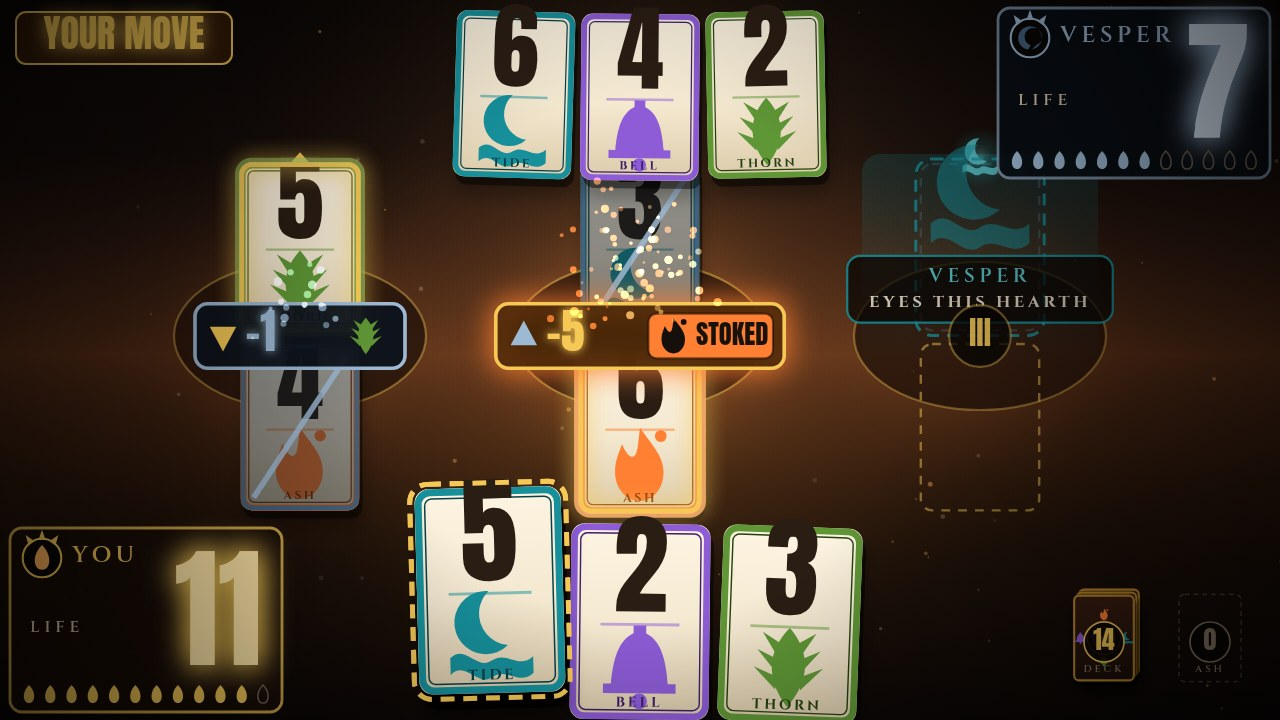
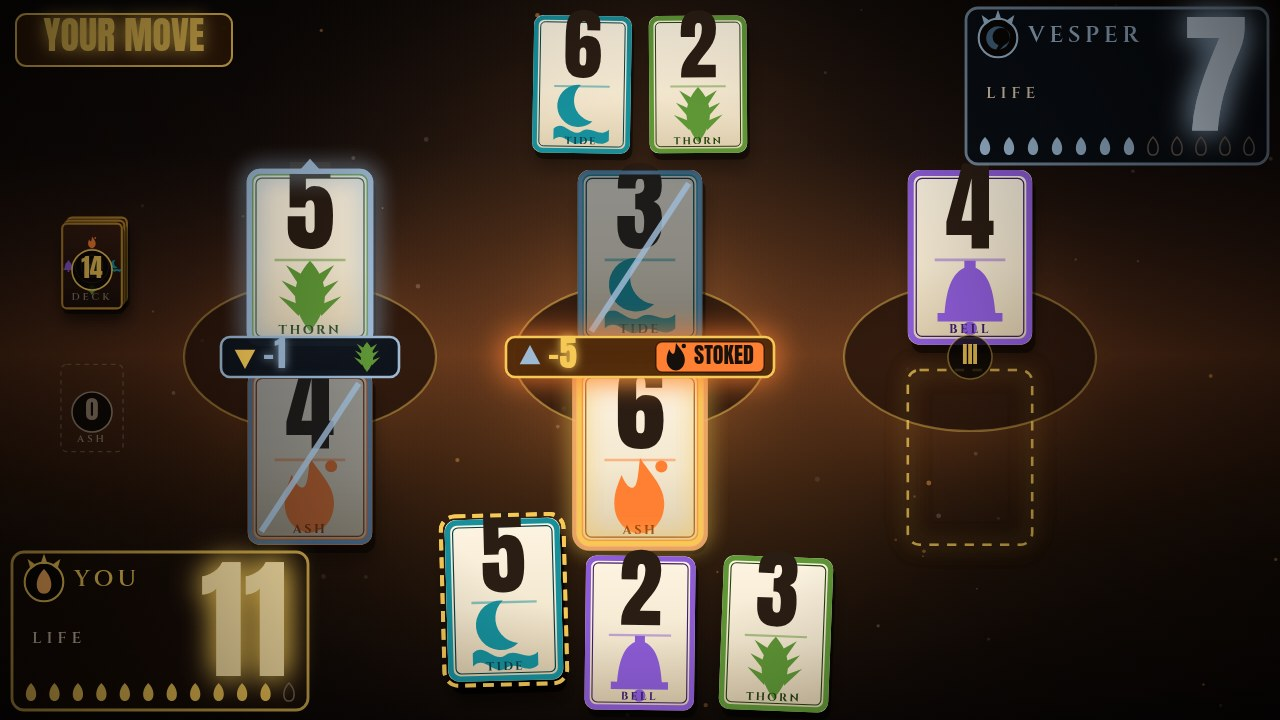
Let the table settle so the court survives a contact sheet
The live table still was a mid-snap frame: both hands bled off the top and
bottom edges, the rival's hand rested on her own hearth row, damage chips
crossed the ranks underneath them and ember specks sat over the crests. At
full size that reads as lively. On a contact sheet, where the table tile is
never enlarged, it reads as a smudge.

So the FOCUS dressing is re-budgeted as four bands down the 720 -- her hand,
her hearth row, your hearth row, your hand -- each with a gutter nothing may
cross. The hearth row grows and the hands give a little back; the fan flattens
so no card reaches a frame edge; and the seam between two clashing cards opens
to 25px, which is the load-bearing change: the verdict badge now flattens into
that seam and sits between the cards instead of across them, so no chip ever
touches a rank or a crest again.

The scene itself is a beat after the snap rather than mid-explosion. She has
committed BELL 4 to the right hearth, so the court shows two settled verdicts
and one live decision with your answer slot struck in gold -- and the embers
and the "eyes this hearth" tell are gone, because a spark over a numeral costs
more than a lit seam is worth.

A card that took its hearth now wears its own side's colour, gold for you and
cold for Vesper, instead of both sides wearing gold. The life blocks already
spoke that pair; the hearths were the one place it broke, which left two gold
rims on a table where the two suitors had won one each.

diff --git a/game/src/config.js b/game/src/config.js
@@ -85,12 +85,14 @@ export const ZONE = {
 // --- court dressing --------------------------------------------------------
 // The same table can be set two ways. RAILS is the full court, with the cycle wheel, the
 // deck and ash piles, the court's law, the log and the control hints laid around the
-// play. FOCUS pulls those rails away and reflows what is left -- hands, hearths, verdict
-// badges and life numerals all grow into the freed width -- so the court reads from
-// across the room. TAB swaps between them in play; the table still is taken in FOCUS.
+// play. FOCUS pulls those rails away and re-budgets the bare 1280x720 the court is left
+// with: the hearth row and the life numerals take the space, the two hands give some back,
+// and every row is separated by a gutter nothing may cross -- so the court reads from
+// across the room and survives being shrunk to a thumbnail. TAB swaps between them in
+// play; the table still is taken in FOCUS.
 // Only presentation moves: the deck, the rules and the rival all behave identically.
 
-export const DRESS = { mode: 'rails', rails: true, lifeNumeral: 80, verdict: 1, tell: 1 };
+export const DRESS = { mode: 'rails', rails: true, lifeNumeral: 80, verdict: 1, tell: 1, handArc: 2.6 };
 
 const DRESSINGS = {
   rails: {
@@ -98,6 +100,7 @@ const DRESSINGS = {
     lifeNumeral: 80,
     verdict: 1,
     tell: 1,
+    handArc: 2.6,
     scale: { playerHand: 0.92, rivalHand: 0.76, hearth: 0.7 },
     zone: {
       rivalHandY: 8,
@@ -118,30 +121,45 @@ const DRESSINGS = {
       playerBank: { cx: 1196, cy: 650 },
     },
   },
+  // FOCUS is budgeted as four bands down the 720: her hand, her side of the hearths, your
+  // side of the hearths, your hand. Nothing is allowed to touch its neighbour or the frame
+  // edge, because the court has to survive being shrunk to a thumbnail -- a card clipped by
+  // the top edge or a hand card resting on a hearth card turns the whole table to mush.
+  // The hearth row is the biggest thing on the table; the two hands read a size below it.
   focus: {
     rails: false,
     lifeNumeral: 132,
-    verdict: 1.4,
+    verdict: 1,
     tell: 1.45,
-    scale: { playerHand: 0.94, rivalHand: 0.8, hearth: 0.8 },
+    // a flatter fan: a steep arc is charm at full size and overflow at the frame edge
+    handArc: 0.9,
+    scale: { playerHand: 0.74, rivalHand: 0.66, hearth: 0.84 },
     zone: {
-      rivalHandY: 14,
-      rivalHandStep: 126,
-      playerHandY: 524,
-      playerHandStep: 150,
-      hearthCentersX: [300, 640, 980],
-      hearthRivalY: 164,
-      hearthPlayerY: 344,
-      hearthSeamY: 336,
-      hearthPlateW: 248,
-      rivalLife: { x: 998, y: 8, w: 272, h: 170 },
-      playerLife: { x: 10, y: 528, w: 272, h: 184 },
-      turnBanner: { x: 16, y: 12, w: 216, h: 52 },
-      deckStack: { cx: 1104, cy: 638 },
-      discardStack: { cx: 1210, cy: 638 },
+      // her hand  16 .. 153
+      rivalHandY: 16,
+      rivalHandStep: 116,
+      // her hearth row 170 .. 345, then a 25px seam, then your hearth row 370 .. 545.
+      // That seam is the load-bearing gap: it is wide enough for the verdict badge to
+      // sit between the two cards instead of across them, so no chip ever touches a rank.
+      hearthRivalY: 170,
+      hearthSeamY: 357,
+      hearthPlayerY: 370,
+      // your hand 556 .. 713
+      playerHandY: 556,
+      playerHandStep: 136,
+      hearthCentersX: [310, 640, 970],
+      hearthPlateW: 252,
+      // the two life blocks take the corners the hearth row cannot reach
+      rivalLife: { x: 966, y: 8, w: 302, h: 156 },
+      playerLife: { x: 12, y: 552, w: 296, h: 158 },
+      turnBanner: { x: 16, y: 14, w: 216, h: 52 },
+      // the stock and the ash take the left flank the hearth row cannot reach, where they
+      // weigh against the banner above them instead of crowding your hand
+      deckStack: { cx: 92, cy: 266 },
+      discardStack: { cx: 92, cy: 408 },
       // a banked card has to come to rest clear of the piles and the opened-up hands
-      rivalBank: { cx: 78, cy: 242 },
-      playerBank: { cx: 1198, cy: 470 },
+      rivalBank: { cx: 1192, cy: 300 },
+      playerBank: { cx: 1192, cy: 462 },
     },
   },
 };
@@ -154,6 +172,7 @@ export function setDressing(mode) {
   DRESS.lifeNumeral = preset.lifeNumeral;
   DRESS.verdict = preset.verdict;
   DRESS.tell = preset.tell;
+  DRESS.handArc = preset.handArc;
   Object.assign(SCALE, preset.scale);
   Object.assign(ZONE, preset.zone);
   return DRESS.mode;

diff --git a/game/src/render.js b/game/src/render.js
@@ -85,7 +85,20 @@ export function drawHearths(ctx, scene) {
     const playerCard = scene.table.hearths[i].player;
     const rivalCard = scene.table.hearths[i].rival;
     if (!playerCard) {
-      drawEmptySlot(ctx, hearthSlot('player', i), open ? INK.gold : 'rgba(142,123,102,0.6)');
+      const slot = hearthSlot('player', i);
+      if (open && !DRESS.rails) {
+        // In focus the hearth you can still answer on is the live thing on the table, so
+        // its empty slot is struck twice through a gold glow: at thumbnail size a single
+        // thin dash reads as a missing card rather than as an invitation.
+        ctx.save();
+        ctx.shadowColor = INK.gold;
+        ctx.shadowBlur = 20;
+        drawEmptySlot(ctx, slot, INK.gold);
+        drawEmptySlot(ctx, slot, INK.gold);
+        ctx.restore();
+      } else {
+        drawEmptySlot(ctx, slot, open ? INK.gold : 'rgba(142,123,102,0.6)');
+      }
       if (open && DRESS.rails) {
         cinzel(ctx, 12, INK.gold, { spacing: 3 });
         ctx.fillText(['Q', 'W', 'E'][i], cx, ZONE.hearthPlayerY + (CARD.h * SCALE.hearth) / 2 + 2);
@@ -100,7 +113,7 @@ export function drawHearths(ctx, scene) {
 
 function cardState(scene, card, side, hearthIndex) {
   const event = hearthIndex === undefined ? null : scene.table.hearths[hearthIndex].event;
-  const state = { flared: Boolean(card.flared) };
+  const state = { flared: Boolean(card.flared), side };
   if (event) state.outcome = event.winner === side ? 'won' : 'lost';
   return state;
 }
@@ -160,14 +173,20 @@ function drawHearthMark(ctx, index) {
 }
 
 /**
- * The verdict sits in the seam, drawn around its own origin and scaled by the dressing,
- * so the badge grows with the court instead of becoming a chip on a bigger table.
+ * The verdict sits in the seam where the two cards meet.
+ *
+ * On the rails that seam is roomy, so the badge is a tall chip. In focus the seam is a
+ * narrow band -- it opens below her crest and closes above your rank -- so the badge
+ * flattens and widens into exactly that band. It carries the same blow and the same stoke,
+ * and it crosses neither numeral, which is the whole point when the court is shrunk to a
+ * thumbnail: a verdict that hides a rank costs more than it tells.
  */
 function drawVerdictBadge(ctx, event, index, time) {
   const playerWon = event.winner === 'player';
   const accent = playerWon ? INK.gold : INK.cold;
-  const w = event.stoked ? 206 : 150;
-  const h = 46;
+  const band = !DRESS.rails;
+  const w = band ? (event.stoked ? 268 : 178) : event.stoked ? 206 : 150;
+  const h = band ? 40 : 46;
 
   ctx.save();
   ctx.translate(ZONE.hearthCentersX[index], ZONE.hearthSeamY);
@@ -187,33 +206,33 @@ function drawVerdictBadge(ctx, event, index, time) {
   ctx.restore();
 
   // an arrow pointing at whoever is bleeding
-  triangle(ctx, -w / 2 + 20, 0, 11, playerWon ? 'up' : 'down', playerWon ? INK.cold : INK.gold);
+  triangle(ctx, -w / 2 + (band ? 24 : 20), 0, band ? 12 : 11, playerWon ? 'up' : 'down', playerWon ? INK.cold : INK.gold);
 
-  anton(ctx, 34, accent, 'left');
+  anton(ctx, band ? 36 : 34, accent, 'left');
   ctx.save();
   ctx.shadowColor = accent;
   ctx.shadowBlur = 10;
-  ctx.fillText(`-${event.damage}`, -w / 2 + 36, 1);
+  ctx.fillText(`-${event.damage}`, -w / 2 + (band ? 42 : 36), 1);
   ctx.restore();
 
   if (event.stoked) {
-    const insetX = 6;
-    plate(ctx, insetX, -16, w / 2 - 14, 32, {
+    const insetX = band ? 16 : 6;
+    plate(ctx, insetX, band ? -15 : -16, w / 2 - (band ? 26 : 14), band ? 30 : 32, {
       fill: CRESTS[event.winCard.crest].color,
       stroke: 'rgba(0,0,0,0.5)',
       radius: 6,
       lineWidth: 1.5,
     });
     ctx.save();
-    ctx.translate(insetX + 18, 0);
-    drawCrest(ctx, event.winCard.crest, 24, '#15100b');
+    ctx.translate(insetX + (band ? 20 : 18), 0);
+    drawCrest(ctx, event.winCard.crest, band ? 26 : 24, '#15100b');
     ctx.restore();
-    anton(ctx, 19, '#1a110a', 'left');
-    ctx.fillText('STOKED', insetX + 34, 1);
+    anton(ctx, band ? 22 : 19, '#1a110a', 'left');
+    ctx.fillText('STOKED', insetX + (band ? 38 : 34), 1);
   } else {
     ctx.save();
-    ctx.translate(w / 2 - 28, 0);
-    drawCrest(ctx, event.winCard.crest, 26, CRESTS[event.winCard.crest].color);
+    ctx.translate(w / 2 - (band ? 32 : 28), 0);
+    drawCrest(ctx, event.winCard.crest, band ? 30 : 26, CRESTS[event.winCard.crest].color);
     ctx.restore();
     if (event.byCycle) {
       cinzel(ctx, 9, accent, { spacing: 1.2 });

diff --git a/game/src/shots.js b/game/src/shots.js
@@ -5,9 +5,9 @@
 // and table functions a live match calls. Nothing is painted by hand, and the same seed
 // always yields the same frame, so a screenshot can be retaken exactly.
 
-import { HEARTH_COUNT, TIME, ZONE, setDressing } from './config.js';
+import { HEARTH_COUNT, TIME, setDressing } from './config.js';
 import { createTable, playToHearth, resolveNextClash, startRound, checkOutcome } from './table.js';
-import { createRival, peekIntent } from './ai.js';
+import { createRival } from './ai.js';
 import { takeNamedCard } from './deck.js';
 import { assignTargets } from './layout.js';
 import { createFlourish, ensureView, stepTable } from './animate.js';
@@ -81,9 +81,14 @@ export function applyShot(app, name) {
 }
 
 /**
- * An open court in mid-round: the rival has taken the left hearth by one point, you have
- * answered on the centre with a stoked ASH 6, your third card is picked up and she is
- * already eyeing the right hearth.
+ * An open court one beat after the snap, with everything at rest.
+ *
+ * Two hearths are settled and scored -- she took the left by a point, you took the centre
+ * back with a stoked ASH 6 -- and on the right she has already committed, so the open gold
+ * slot under her BELL 4 is the move in front of you. Nothing is mid-flight: no card
+ * overlaps another, no chip crosses a rank, and the only motion left is the rim glow on
+ * the two cards that won their seam. The frame is meant to be read at a glance from a
+ * contact sheet, where a lively tangle would just be a smudge.
  */
 function buildMidRound(app) {
   const table = createTable(app.seed);
@@ -102,32 +107,28 @@ function buildMidRound(app) {
   stageHand(table, 'rival', [
     ['thorn', 5],
     ['tide', 3],
-    ['tide', 6],
     ['bell', 4],
+    ['tide', 6],
     ['thorn', 2],
   ]);
 
-  // four real moves: she takes the left hearth, you stoke the centre and take it back
+  // five real moves: she takes the left hearth, you stoke the centre and take it back,
+  // then she commits BELL 4 to the right and the court comes back round to you
   scriptedPlay(table, 'player', 'ash', 4, 0);
   scriptedPlay(table, 'rival', 'thorn', 5, 0);
   scriptedPlay(table, 'player', 'ash', 6, 1);
   scriptedPlay(table, 'rival', 'tide', 3, 1);
+  scriptedPlay(table, 'rival', 'bell', 4, 2);
 
   table.phase = 'player';
   table.turn = 'player';
   table.timer = 0;
   app.selected = handIndexOf(table, 'player', 'tide', 5);
-  app.intent = peekIntent(table, app.rival);
+  // No tell and no sparks: she has already shown her hand on the right hearth, and a
+  // speck of ember over a rank costs more than a lit seam is worth at thumbnail size.
+  app.intent = null;
   app.hover = null;
-  settle(app, 2.6);
-  // Let the springs rest, then re-light the moment: the stoked seam throws sparks and the
-  // left hearth sheds cold ones, and a third of a second of flight is stepped so they are
-  // caught mid-arc. The frame reads as a court a beat after the snap, not a diagram.
-  const seam = ZONE.hearthSeamY;
-  emitEmbers(app.burst, ZONE.hearthCentersX[1], seam + 6, '#ff8a3d', 52, 1.9);
-  emitEmbers(app.burst, ZONE.hearthCentersX[1], seam - 14, '#ffd98a', 28, 1.35);
-  emitEmbers(app.burst, ZONE.hearthCentersX[0], seam + 2, '#9db9d4', 18, 0.9);
-  settle(app, 0.42);
+  settle(app, 3.2);
   // Put the rim glow and the landing pop back on the cards that won their seam.
   for (let i = 0; i < HEARTH_COUNT; i += 1) {
     const event = table.hearths[i].event;
@@ -135,8 +136,11 @@ function buildMidRound(app) {
     const winner = table.hearths[i][event.winner];
     if (!winner) continue;
     const view = ensureView(winner);
-    view.glow = event.stoked ? 0.95 : 0.55;
-    view.pop = event.stoked ? 0.55 : 0.28;
+    // Swell barely: a popped card grows into the gutter the layout just bought. And keep
+    // the crest-bright glow for the stoked card alone -- on a plain win it paints over the
+    // gold-or-cold rim that says whose hearth this is, which is the more useful cue.
+    view.glow = event.stoked ? 0.95 : 0;
+    view.pop = event.stoked ? 0.18 : 0.08;
   }
 }
 

diff --git a/game/src/card-art.js b/game/src/card-art.js
@@ -107,7 +107,7 @@ function drawFace(ctx, card, view, state) {
   ctx.letterSpacing = '0px';
 
   if (state.outcome === 'lost') drawLostScrim(ctx);
-  if (state.outcome === 'won') drawWonRim(ctx, view);
+  if (state.outcome === 'won') drawWonRim(ctx, state.side);
   if (state.selected) drawSelectRim(ctx);
   if (state.flared) drawFlareMark(ctx, crest);
   if ((view.glow ?? 0) > 0.01) {
@@ -141,19 +141,26 @@ function drawLostScrim(ctx) {
   ctx.restore();
 }
 
-function drawWonRim(ctx, view) {
+/**
+ * The rim a card wears when it took its hearth, in the colour of whoever took it: gold
+ * for you, cold ash-blue for Vesper. The court uses that pair everywhere else -- the life
+ * blocks, the verdict badges, the end screens -- and a hearth is the one place it used to
+ * break, which left two gold rims on a table where the two sides had won one each.
+ */
+function drawWonRim(ctx, side) {
+  const tone = side === 'rival' ? INK.cold : INK.gold;
   ctx.save();
-  ctx.shadowColor = INK.gold;
+  ctx.shadowColor = tone;
   ctx.shadowBlur = 22;
-  ctx.strokeStyle = INK.gold;
+  ctx.strokeStyle = tone;
   ctx.lineWidth = 6;
   roundRect(ctx, -W / 2 + 2, -H / 2 + 2, W - 4, H - 4, CARD.radius - 1);
   ctx.stroke();
   ctx.stroke();
   ctx.restore();
-  // a gold crown wedge at the top edge
+  // a crown wedge at the top edge, in the same hand's colour
   ctx.save();
-  ctx.fillStyle = INK.gold;
+  ctx.fillStyle = tone;
   ctx.beginPath();
   ctx.moveTo(0, -H / 2 - 13);
   ctx.lineTo(16, -H / 2 + 5);

diff --git a/game/src/layout.js b/game/src/layout.js
@@ -1,7 +1,7 @@
 // Where everything sits on the 1280x720 court. One job: turn table state into target
 // positions for every card, and turn a mouse point back into the thing under it.
 
-import { CARD, HEARTH_COUNT, SCALE, ZONE } from './config.js';
+import { CARD, DRESS, HEARTH_COUNT, SCALE, ZONE } from './config.js';
 
 /** Deterministic -1..1 wobble per card so a dealt hand never looks machine-stacked. */
 function wobble(card) {
@@ -15,7 +15,7 @@ export function handSlot(side, index, count, card, lifted) {
   const scale = side === 'player' ? SCALE.playerHand : SCALE.rivalHand;
   const centerX = side === 'player' ? ZONE.playerHandCenterX : ZONE.rivalHandCenterX;
   const spread = index - (count - 1) / 2;
-  const arc = Math.abs(spread) ** 2 * 2.6;
+  const arc = Math.abs(spread) ** 2 * DRESS.handArc;
   const jitter = card ? wobble(card) : 0;
   if (side === 'player') {
     return {

diff --git a/game/src/screens.js b/game/src/screens.js
@@ -265,8 +265,8 @@ function drawFinalClash(ctx, scene, accent) {
   resetSpacing(ctx);
 
   const winnerIsPlayer = event.winner === 'player';
-  drawCard(ctx, event.winCard, { x: cx - 104, y: cy, scale: 0.95, rot: -0.08, face: 1, glow: 0.8 }, { outcome: 'won' });
-  drawCard(ctx, event.loseCard, { x: cx + 104, y: cy, scale: 0.95, rot: 0.08, face: 1 }, { outcome: 'lost' });
+  drawCard(ctx, event.winCard, { x: cx - 104, y: cy, scale: 0.95, rot: -0.08, face: 1, glow: 0.8 }, { outcome: 'won', side: event.winner });
+  drawCard(ctx, event.loseCard, { x: cx + 104, y: cy, scale: 0.95, rot: 0.08, face: 1 }, { outcome: 'lost', side: event.loser });
 
   // The blow sits in the seam between the two cards; the stoke rides under them, so
   // neither badge covers the crest that won the hearth.
